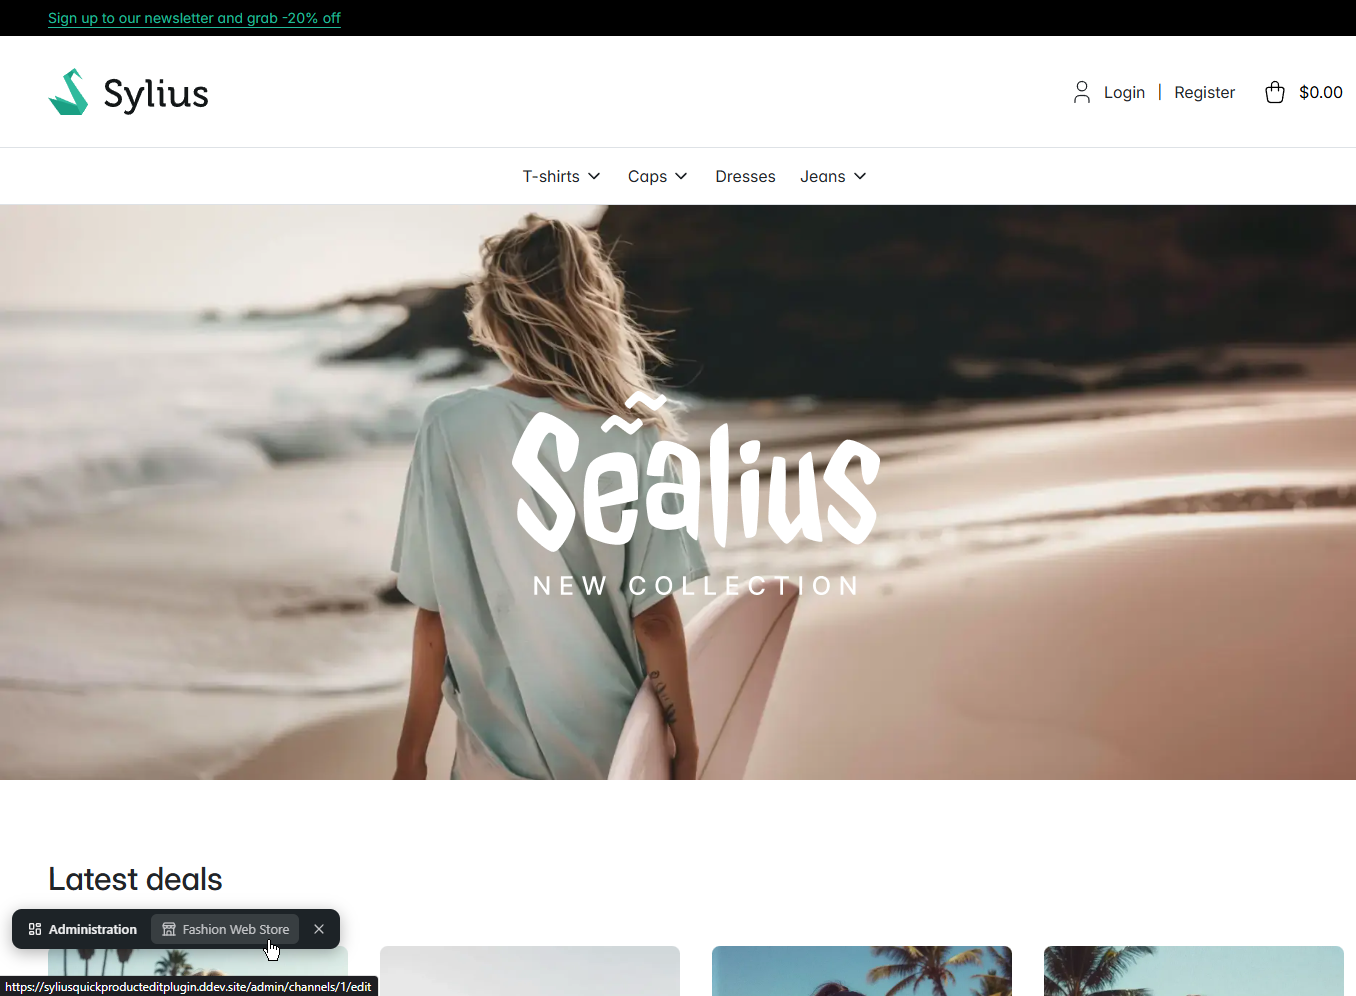
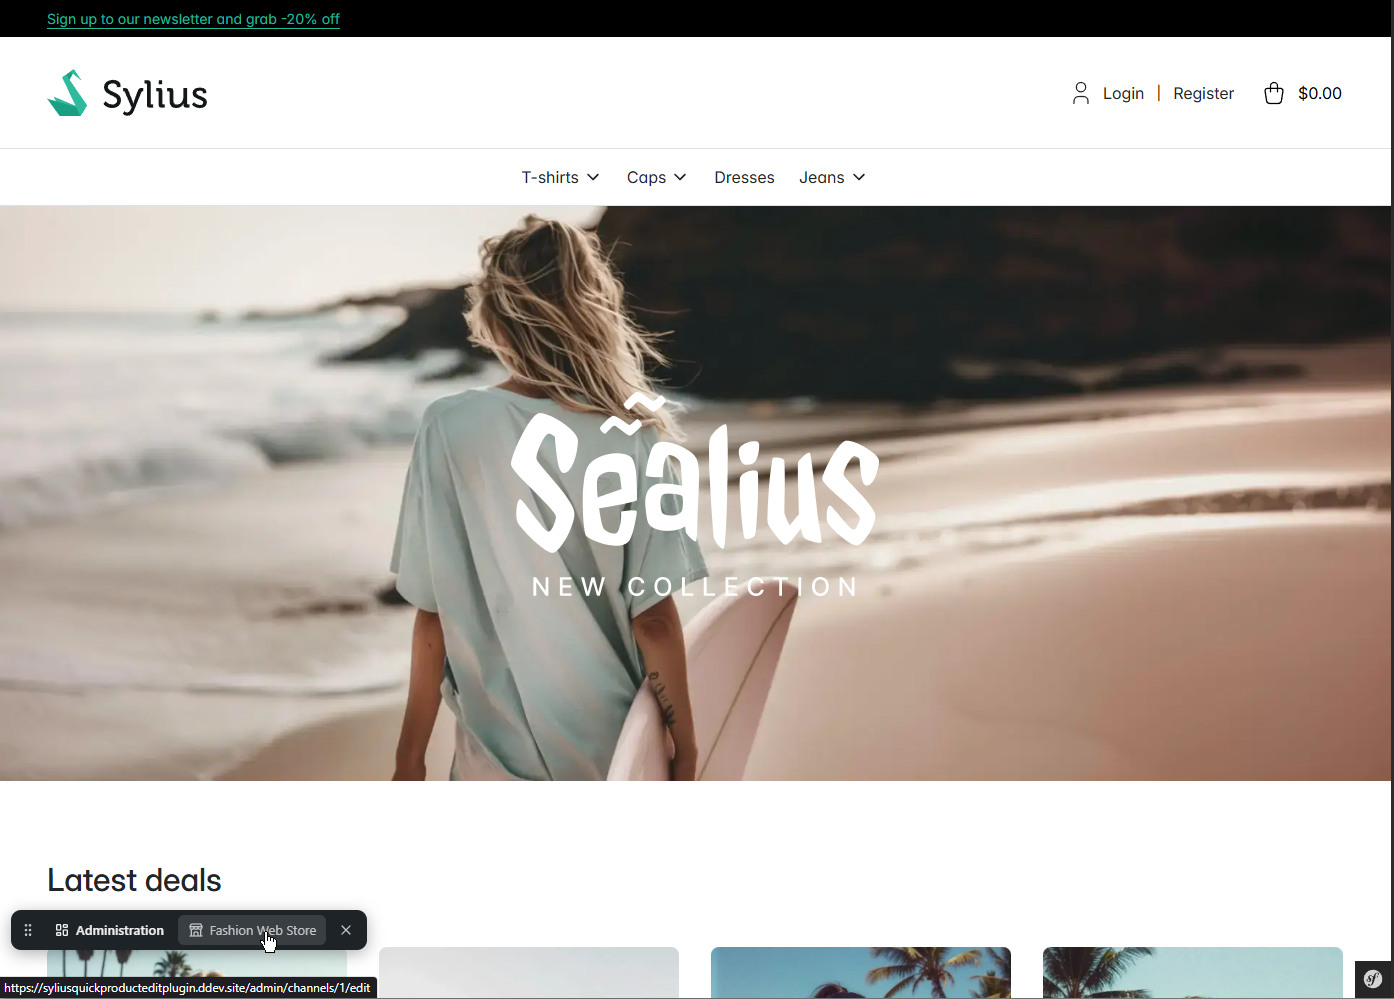
[DOCS] update docs and screenshots

diff --git a/README.md b/README.md
@@ -4,6 +4,8 @@ Adds a floating bar to the storefront, similar to the Symfony web debug toolbar.
 
 The bar floats above the page at the bottom, so it never covers the shop header with its navigation and cart. The button on its right collapses it to a small button in the corner. This is remembered per browser until the bar is shown again.
 
+As an alternative you can also move the bar to specific snap points. Rather with dragging, and move, or with clicking the icon.
+
 ## Demo
 
 ### Edit a product and list its variants
@@ -114,25 +116,12 @@ All options with their defaults, e.g. in `config/packages/s_krull_sylius_quick_e
 
 ```yaml
 s_krull_sylius_quick_edit_bar:
-    # Edge of the viewport the bar floats at: bottom or top
+    # Edge of the viewport the bar floats at, until it is moved to another corner: bottom or top
     position: bottom
 
     product:
         # Number of variants listed in the variants dropdown (at least 1), the last entry always links to the full list
         max_variants: 20
-```
-
-Like any bundle configuration, the value can differ per environment or come from an environment variable:
-
-```yaml
-s_krull_sylius_quick_edit_bar:
-    product:
-        max_variants: '%env(int:QUICK_EDIT_BAR_MAX_VARIANTS)%'
-
-when@dev:
-    s_krull_sylius_quick_edit_bar:
-        product:
-            max_variants: 100
 ```
 
 To check the configuration that is actually used:
